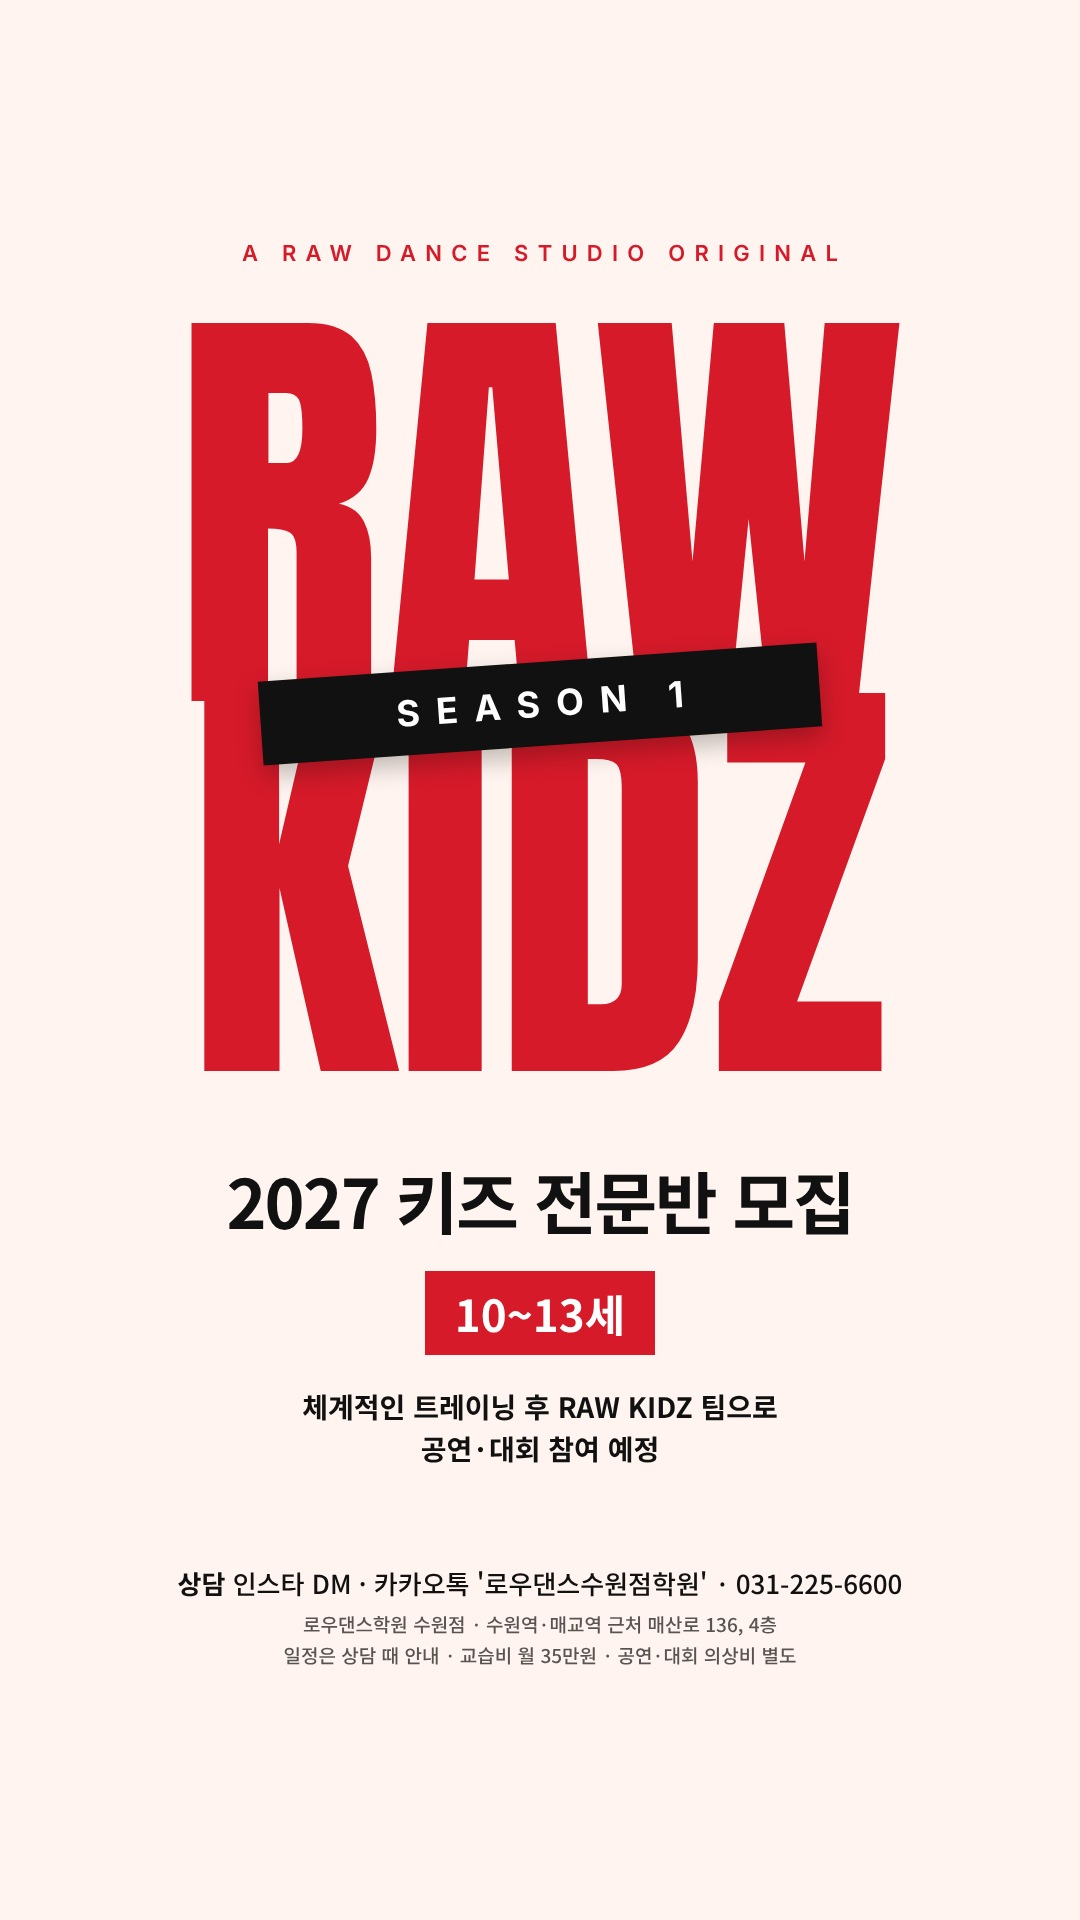
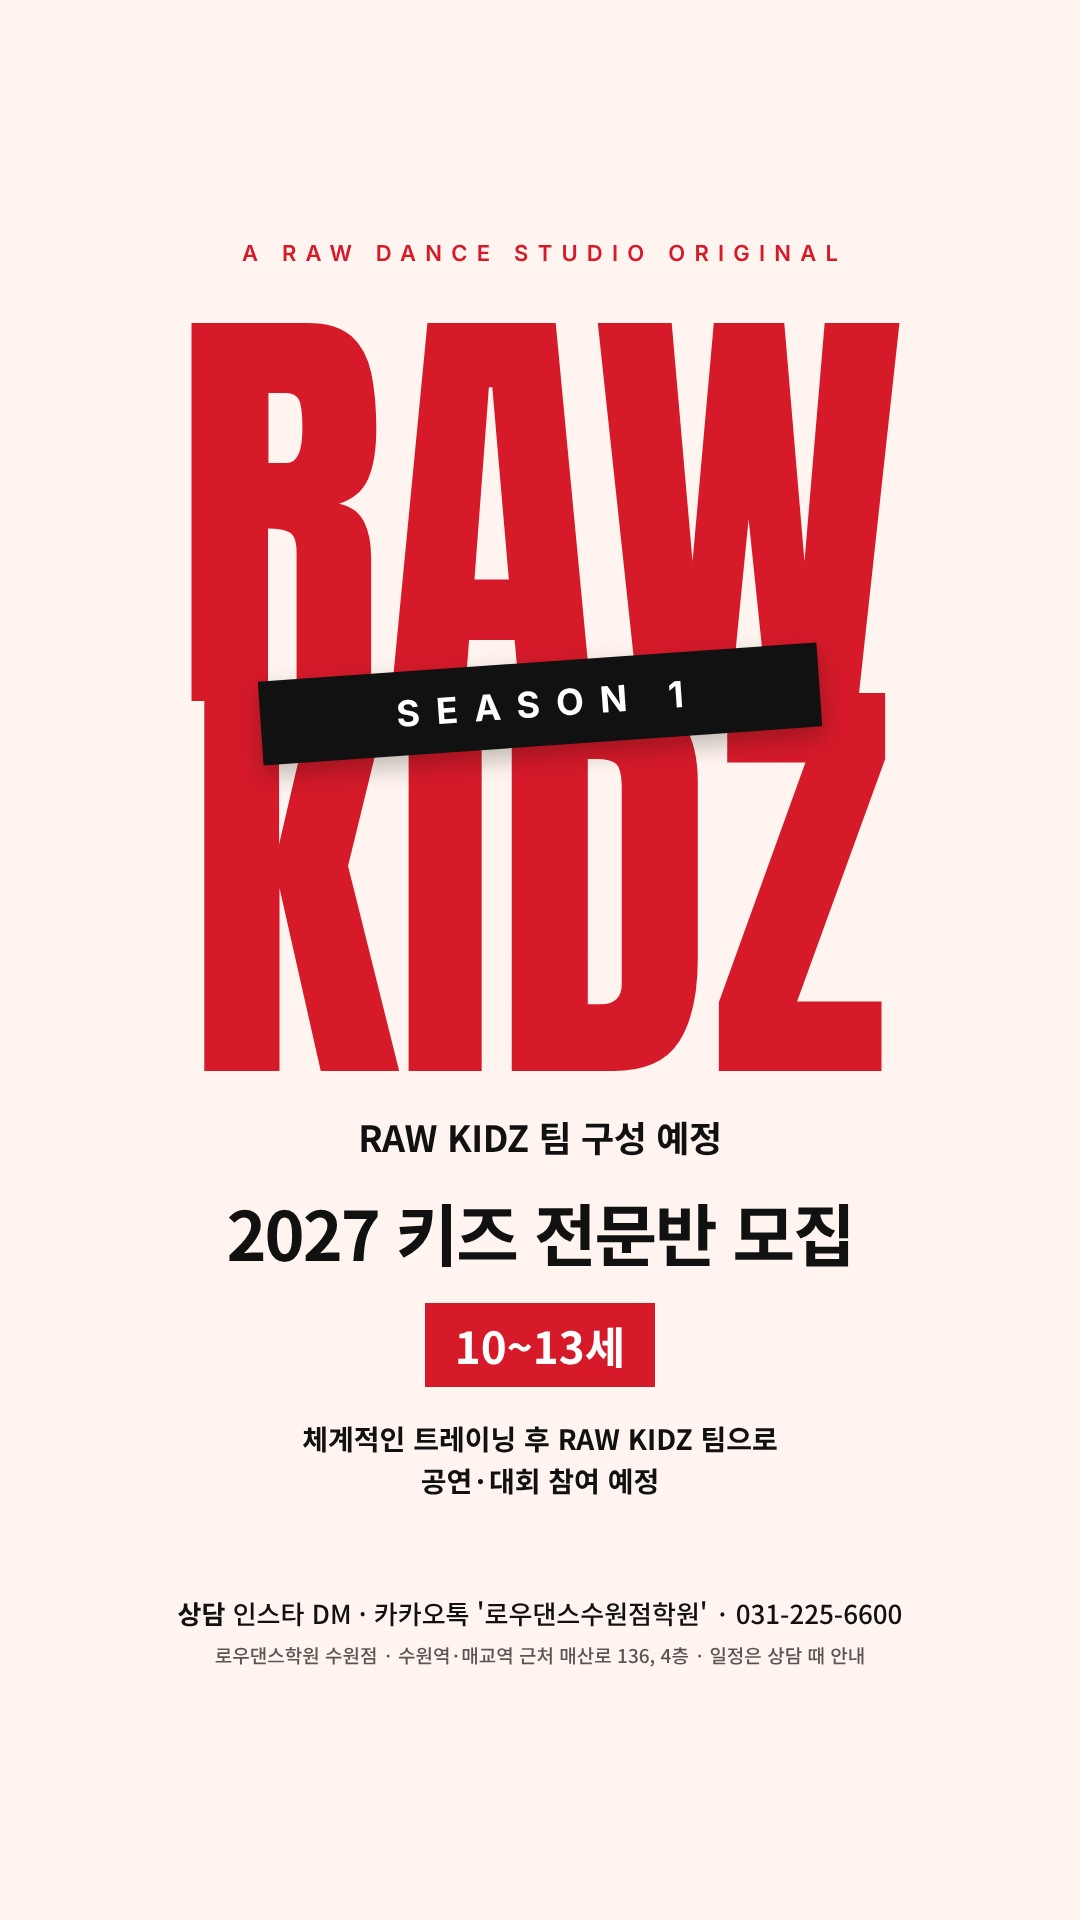
키즈전문반 SEASON 1: 이미지에서 교습비·의상비 빼고 캡션으로(원장님), 'RAW KIDZ 팀 구성 예정' 추가, 캡션 이모지 2개
Claude-Session: https://claude.ai/code/session_01CMPXWNa21Fqq6srPZpa27D

Changed region(s): [[0.2139, 0.5625, 0.7944, 0.7812], [0.1528, 0.8125, 0.8556, 0.875]]

diff --git a/content/2026-11-19_kidz-pro-poster/poster5.html b/content/2026-11-19_kidz-pro-poster/poster5.html
@@ -11,7 +11,7 @@
 <script>
 const c=new URLSearchParams(location.search).get('c')||'A1';
 const FOOT=(col='#111')=>`<div class="foot" style="color:${col}"><b>상담</b> 인스타 DM @rawdance_suwon · 카카오톡 '로우댄스수원점학원' · 031-225-6600
-<small>로우댄스학원 수원점 · 수원역·매교역 근처 매산로 136, 4층 · 일정은 상담 때 안내 · 교습비 월 35만원 · 공연·대회 의상비 별도</small></div>`;
+<small>로우댄스학원 수원점 · 수원역·매교역 근처 매산로 136, 4층 · 일정은 상담 때 안내</small></div>`;
 const LINE='체계적인 트레이닝 후 RAW KIDZ 팀으로 공연·대회 참여 예정';
 const V={};
 // 시즌 1 띠: RAW와 KIDZ 사이 정가운데 (원장님 2026-11-19 "시즌1이 가운데 박히면 좋겠는데 둘다")
@@ -52,9 +52,10 @@ V.B1=`<div class="P" style="background:radial-gradient(120% 90% at 50% 30%,#E820
  <div style="position:absolute;left:0;right:0;top:220px;text-align:center;color:#fff;font:400 360px/0.84 Anton">RAW<br>KIDZ</div>
  ${BAND(220+360*0.84+4,30,'#111','#fff',470)}
  <div style="position:absolute;left:0;right:0;top:850px;text-align:center;color:#fff">
+  <div style="font-size:32px;font-weight:800;margin-bottom:20px;letter-spacing:-.01em">RAW KIDZ 팀 구성 예정</div>
   <div style="font-size:56px;font-weight:800;letter-spacing:-.03em">2027 키즈 전문반 모집 <span style="border:2px solid #fff;padding:2px 16px;font-size:44px">10~13세</span></div>
   <div style="margin-top:18px;font-size:25px;font-weight:500">${LINE}</div></div>
- <div style="position:absolute;left:90px;right:90px;top:1085px;text-align:center;color:#fff;opacity:.8;font:400 20px/1.35 'Bebas Neue';letter-spacing:.12em;transform:scaleY(1.25)">
+ <div style="position:absolute;left:90px;right:90px;top:1110px;text-align:center;color:#fff;opacity:.8;font:400 20px/1.35 'Bebas Neue';letter-spacing:.12em;transform:scaleY(1.25)">
   RAW DANCE STUDIO SUWON PRESENTS · KIDS PRO CLASS · AGE 10–13 · TRAINING → RAW KIDZ TEAM → STAGE & COMPETITION (PLANNED) · COMING 2027</div>
  ${FOOT('#fff')}
 </div>`;
@@ -64,7 +65,8 @@ V.B2=`<div class="P" style="background:#FFF4EF">
  <div style="position:absolute;left:0;right:0;top:66px;text-align:center;font:600 20px Inter;letter-spacing:.42em;margin-right:-.42em;color:#D61A2A">A RAW DANCE STUDIO ORIGINAL</div>
  <div style="position:absolute;left:0;right:0;top:150px;text-align:center;font:400 400px/0.84 Anton;color:#D61A2A">RAW<br>KIDZ</div>
  ${BAND(150+400*0.84+4,32,'#111','#fff',500)}
- <div style="position:absolute;left:0;right:0;top:880px;text-align:center">
+ <div style="position:absolute;left:0;right:0;top:850px;text-align:center">
+  <div style="font-size:32px;font-weight:800;margin-bottom:20px;letter-spacing:-.01em">RAW KIDZ 팀 구성 예정</div>
   <div style="font-size:60px;font-weight:800;letter-spacing:-.03em">2027 키즈 전문반 모집</div>
   <div style="margin-top:18px;display:inline-block;background:#D61A2A;color:#fff;padding:10px 28px;font-size:34px;font-weight:800">10~13세</div>
   <div style="margin-top:22px;font-size:24px;font-weight:600">${LINE}</div></div>
@@ -73,7 +75,7 @@ V.B2=`<div class="P" style="background:#FFF4EF">
 
 // 스토리(9:16) — 원장님 2026-11-19 "시즌1 좋네". 인스타 스토리 위·아래 UI 피해서 위 220px·아래 300px 비움
 const SFOOT=(col)=>`<div style="position:absolute;left:64px;right:64px;bottom:250px;text-align:center;color:${col};font-size:26px;line-height:1.6;font-weight:500"><b style="font-weight:800">상담</b> 인스타 DM · 카카오톡 '로우댄스수원점학원' · 031-225-6600
- <div style="font-size:19px;opacity:.7;margin-top:6px">로우댄스학원 수원점 · 수원역·매교역 근처 매산로 136, 4층<br>일정은 상담 때 안내 · 교습비 월 35만원 · 공연·대회 의상비 별도</div></div>`;
+ <div style="font-size:19px;opacity:.7;margin-top:6px">로우댄스학원 수원점 · 수원역·매교역 근처 매산로 136, 4층 · 일정은 상담 때 안내</div></div>`;
 V.B1S=`<div class="P" style="height:1920px;background:radial-gradient(120% 80% at 50% 35%,#E8202E 0%,#B00F1C 70%,#7E0A14 100%)">
  <div style="position:absolute;inset:0;opacity:.16;background-image:radial-gradient(#000 1px,transparent 1px);background-size:4px 4px"></div>
  <div style="position:absolute;left:0;right:0;top:240px;text-align:center;color:#fff;font:600 22px Inter;letter-spacing:.42em;margin-right:-.42em">A RAW DANCE STUDIO ORIGINAL</div>
@@ -81,6 +83,7 @@ V.B1S=`<div class="P" style="height:1920px;background:radial-gradient(120% 80% a
  <div style="position:absolute;left:0;right:0;top:420px;text-align:center;color:#fff;font:400 400px/0.84 Anton">RAW<br>KIDZ</div>
  ${BAND(420+400*0.84+4,34,'#111','#fff',520)}
  <div style="position:absolute;left:0;right:0;top:1130px;text-align:center;color:#fff">
+  <div style="font-size:36px;font-weight:800;margin-bottom:20px;letter-spacing:-.01em">RAW KIDZ 팀 구성 예정</div>
   <div style="font-size:64px;font-weight:800;letter-spacing:-.03em">2027 키즈 전문반 모집</div>
   <div style="margin-top:20px;display:inline-block;border:3px solid #fff;padding:6px 26px;font-size:48px;font-weight:800">10~13세</div>
   <div style="margin-top:30px;font-size:28px;font-weight:500;line-height:1.5">체계적인 트레이닝 후 RAW KIDZ 팀으로<br>공연·대회 참여 예정</div></div>
@@ -90,7 +93,8 @@ V.B2S=`<div class="P" style="height:1920px;background:#FFF4EF">
  <div style="position:absolute;left:0;right:0;top:240px;text-align:center;font:600 22px Inter;letter-spacing:.42em;margin-right:-.42em;color:#D61A2A">A RAW DANCE STUDIO ORIGINAL</div>
  <div style="position:absolute;left:0;right:0;top:330px;text-align:center;font:400 440px/0.84 Anton;color:#D61A2A">RAW<br>KIDZ</div>
  ${BAND(330+440*0.84+4,36,'#111','#fff',560)}
- <div style="position:absolute;left:0;right:0;top:1150px;text-align:center">
+ <div style="position:absolute;left:0;right:0;top:1110px;text-align:center">
+  <div style="font-size:36px;font-weight:800;margin-bottom:20px;letter-spacing:-.01em">RAW KIDZ 팀 구성 예정</div>
   <div style="font-size:68px;font-weight:800;letter-spacing:-.03em">2027 키즈 전문반 모집</div>
   <div style="margin-top:22px;display:inline-block;background:#D61A2A;color:#fff;padding:10px 30px;font-size:44px;font-weight:800">10~13세</div>
   <div style="margin-top:30px;font-size:28px;font-weight:600;line-height:1.5">체계적인 트레이닝 후 RAW KIDZ 팀으로<br>공연·대회 참여 예정</div></div>

diff --git a/content/2026-11-19_kidz-pro-poster/instagram.md b/content/2026-11-19_kidz-pro-poster/instagram.md
@@ -3,22 +3,23 @@
 > 이미지: `final/feed_B1_red.jpg`(빨강) 또는 `final/feed_B2_light.jpg`(밝은 바탕) / 스토리 `final/story_B1_red.jpg`, `final/story_B2_light.jpg`
 > 원장님 2026-11-19: 5차례 시안 끝에 3차 B '시리즈 포스터(SEASON 1)' 선택, "시즌1이 가운데 박히면 좋겠는데 둘다" 반영
 > 사실: 2027 키즈 전문반 모집, 10~13세, 트레이닝 후 RAW KIDZ 팀으로 공연·대회 참여 '예정', 일정 미정(상담 때 안내), 교습비 월 35만원
-> compliance-checker 검수: (아래 기록)
+> compliance-checker 검수: 2026-11-19 수정 후 통과 — 사실·교습비(월 35만원)·의상비 별도·해시태그 5개 OK / 고칠 것: ① 캡션 이모지 7개 → 📍 포함 2개 이하(스토리 질문 스티커 🙋 삭제) ② 이미지 큰 RAW KIDZ 바로 아래(SEASON 1 띠 옆이나 아래)에 '팀 구성 예정' 한 줄 / 원장님 답 대기: 선발이면 '선발 후 팀 구성 예정'으로 이미지·캡션 모두 교체, 대회 참가비 따로 있으면 '대회 참가비 별도' 추가
+> 2026-11-19 원장님: 이미지 아래 돈 관련(교습비·의상비)은 빼고 캡션에만 → 이미지에서 삭제, 캡션에 교습비 전체 금액 유지 / 검수 반영: 이모지 2개(🎬📍), 이미지 큰 RAW KIDZ 바로 아래 "RAW KIDZ 팀 구성 예정"
 > 원장님 확인 대기: 등록하면 전원 RAW KIDZ 팀인지(따로 뽑으면 "선발 후 팀 구성 예정"으로 수정), 대회 참가비 따로 있는지
 
 ## 피드 캡션
 
 ```
-우리 아이의 첫 시즌, RAW KIDZ 🎬
+우리 아이의 첫 시즌, RAW KIDZ SEASON 1 🎬
 2027 키즈 전문반 모집 · 10~13세
 
-🎯 체계적인 트레이닝으로 기본기부터
-👟 트레이닝 후 RAW KIDZ 팀으로 공연·대회 참여 예정
-🗓 수업 요일·시간은 상담 때 안내
+체계적인 트레이닝으로 기본기부터
+트레이닝 후 RAW KIDZ 팀 구성 · 공연·대회 참여 예정
+수업 요일·시간은 상담 때 안내
 
-💸 교습비 월 35만원 · 공연·대회 의상비 별도
+교습비 월 35만원 · 공연·대회 의상비 별도
 
-💬 상담 DM '키즈 전문반' · 카톡 '로우댄스수원점학원' · 031-225-6600
+상담 DM '키즈 전문반' · 카톡 '로우댄스수원점학원' · 031-225-6600
 📍 수원역·매교역 근처 매산로 136, 4층 · 건물 내 무료 주차
 로우댄스학원 수원점 · 학원 등록번호 제8189호
 
@@ -27,4 +28,4 @@
 
 ## 스토리 (이미지 위에 붙일 스티커)
 - 링크 스티커 또는 DM 버튼: "키즈 전문반 상담"
-- 질문 스티커(선택): "궁금한 거 물어봐 주세요 🙋"
+- 질문 스티커(선택): "궁금한 거 물어봐 주세요"
